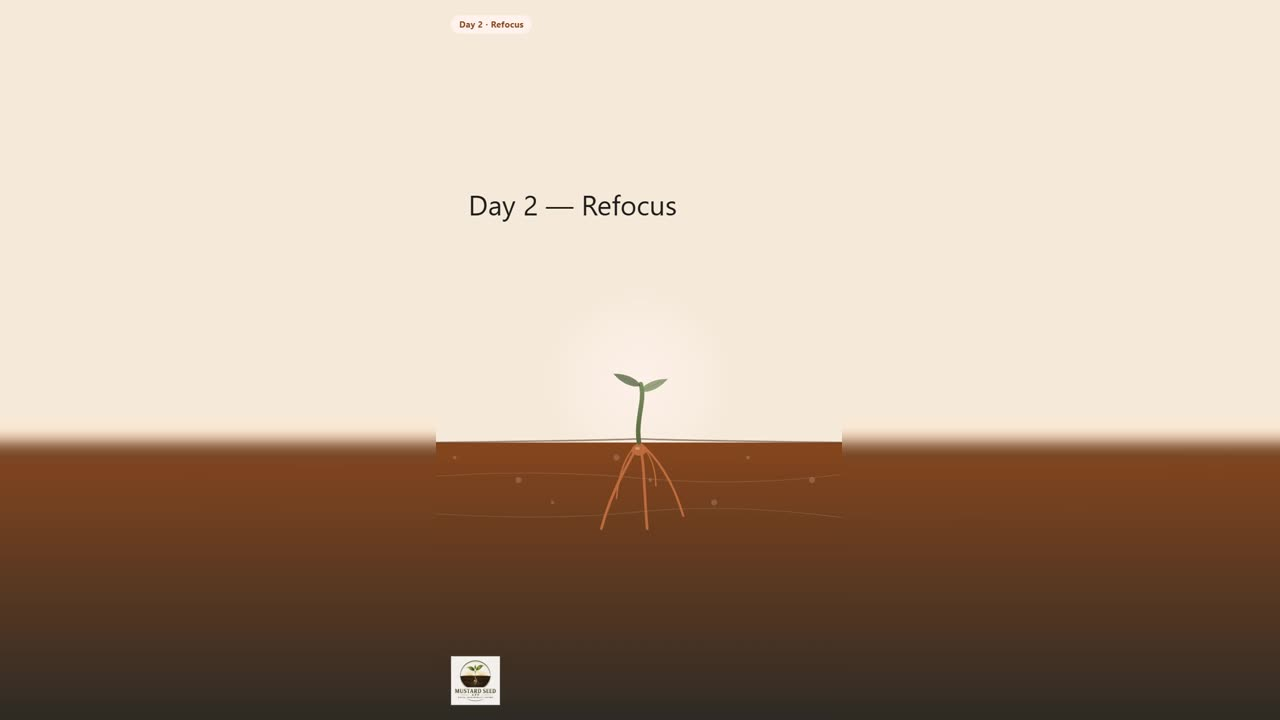
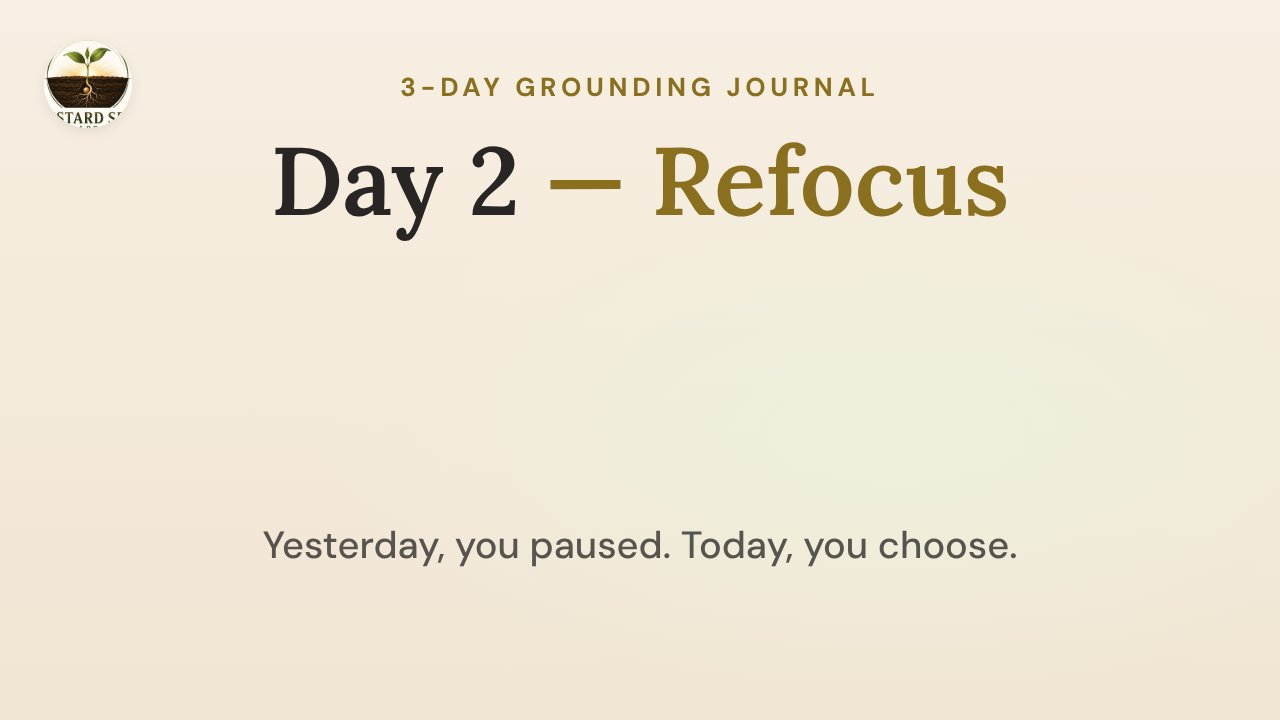
Journal Day 2 tune-up: missed-step accountability, deeper follow-up, past-tense step, posters
Audited against main first (Day 1 work from #47 is already on main).

1. "Partly"/"Not yet" on last night's step: Jai keeps the grace and makes
   his one question what got in the way; his reply then keeps the step
   or makes it smaller (Feedback & Adaptation). Their answer and his
   reply go to Memory. The evening now also sees his morning reply.
2. Jai's follow-up question may not restate or reword an on-screen
   question they just answered; it goes one level deeper into their why.
3. The card reads "Last night you planned: ..." (the stored step keeps
   its "Tomorrow, ..." wording).
5. Verified Day 2 offers the reflect-time picker and kept-your-word
   water. Tester runs never saw it: after one "Skip the wait" the gate
   stayed locked on the already-done session, so every later wait screen
   was silently skipped. The gate now moves past sessions already done
   (no change for real users, who can't finish a session early). New
   unit test.
7. One poster style for Days 1-3: a title card with the title above the
   play button and the day's line below it. All three videos verified
   full 1280x720 with no black bars.

Item 4 (Day 1 step from the user's words) and 6 (acknowledgment after
the morning reply) were already fixed in #46/#47.

Claude-Session: https://claude.ai/code/session_011426F9ZEwG46ZQEsTnvUv8

diff --git a/server/jaeJournal.ts b/server/jaeJournal.ts
@@ -26,7 +26,7 @@ export interface JournalSessionContext {
   }[];
   // Evening only: this morning's follow-up question and their answer — often
   // where they set today's small step.
-  todayMorningFollowUp?: { question: string; answer: string } | null;
+  todayMorningFollowUp?: { question: string; answer: string; jaiReply?: string | null } | null;
   // Grounding statement only: the last step Jai locked in.
   lockedStep?: string | null;
   // Only populated for evening sessions — that day's own morning prompts +
@@ -169,7 +169,7 @@ export async function generateJournalReflection(
   const morningStepBlock = ctx.session === "morning" && (ctx.yesterdayStep || stepCheck)
     ? `
 Last night you suggested this small step for today (reference only): ${ctx.yesterdayStep ?? stepCheck!.prompt.slice(STEP_CHECK_PREFIX.length).trim()}
-${stepCheck ? `They answered whether they did it: ${stepCheck.response}. Acknowledge it in ONE short sentence near the start of "reflection" (after answering any direct question). Did it → name it as real progress toward their goal, and as Small Steps + Consistency in action (that exact name). Partly or not yet → grace, no shame; showing up today still counts, and the step can be smaller. Don't ask about it again.` : `They haven't said whether they did it. Don't assume either way.`}
+${stepCheck ? `They answered whether they did it: ${stepCheck.response}. Acknowledge it in ONE short sentence near the start of "reflection" (after answering any direct question). Did it → name it as real progress toward their goal, and as Small Steps + Consistency in action (that exact name). Partly or not yet → grace, no shame; showing up today still counts. Then make your ONE "followUpQuestion" a short, kind question about what got in the way (e.g. "What got in the way last night?"), so the two of you can adapt the step. If they did it, don't ask about it again.` : `They haven't said whether they did it. Don't assume either way.`}
 `
     : "";
   const eveningStepBlock = isEvening
@@ -189,7 +189,7 @@ Tonight, end with ONE small next step ("nextStep"):
     ? `
 This morning you asked: ${ctx.todayMorningFollowUp.question}
 They answered (reference only, never quote it): ${ctx.todayMorningFollowUp.answer}
-If that answer set a step for today, check tonight's words for whether they did it. If it named a change they want, build tomorrow's "nextStep" from it.
+${ctx.todayMorningFollowUp.jaiReply ? `You replied: ${ctx.todayMorningFollowUp.jaiReply}\n` : ""}If that answer set a step for today, check tonight's words for whether they did it. If it named a change they want, build tomorrow's "nextStep" from it.
 `
     : "";
   const priorDays = (ctx.previousEntries ?? []).some((e) => e.dayNumber < ctx.dayNumber);
@@ -232,6 +232,7 @@ Rules:
 - Don't repeat the journal prompt's wording back to them (for example "most present", "pace or patience", "calm and purpose"). Instead, name the specific insight they gave, in plain words. Example: if they wrote that they got more done because they didn't feel rushed, say something like "not rushing is what made you productive," not "you reflected on your pace or patience."
 - Keep reflection to 2-4 sentences max.
 - Never ask multiple questions. One question only.
+- Your "followUpQuestion" must never restate or reword an on-screen question they just answered (the "Prompt:" lines). Go one level deeper: ask about the why beneath what they wrote, using their own idea in your words.
 - Avoid clinical or robotic language.
 - Help them notice patterns, name what matters, release shame.
 - If this is the grounding_statement session: help them identify a possible first seed — a single small action that could grow from what they've named.
@@ -320,6 +321,8 @@ export async function generateFollowUpAck(ctx: {
   answer: string;
   intention?: string | null;
   weakestHeartbeat?: { name: string; score: number } | null;
+  // Set when the question was what got in the way of last night's step.
+  missedStep?: { step: string; status: string } | null;
 }): Promise<string> {
   const system = `You are Jai — a calm, grounded accountability partner in the Mustard Seed app.
 ${ctx.userName} just answered your follow-up question in their 3-Day Grounding Journal.
@@ -329,7 +332,8 @@ Reply in 1–2 short sentences that acknowledge what they said and affirm the st
 - Do not ask a question. Do not give advice lists.
 - If they asked you something, answer it plainly in one sentence.
 - If you name a Heartbeat, use its full name exactly.
-- Grace and accountability, no shame. Plain text only.`;
+- Grace and accountability, no shame. Plain text only.${ctx.missedStep ? `
+- Their answer is about what got in the way of last night's step (${ctx.missedStep.step}; they said: ${ctx.missedStep.status}). Acknowledge it with grace, then in ONE sentence either keep that step or make it smaller so it fits what got in the way. That adjusting is Feedback & Adaptation; you may name it by that exact name.` : ""}`;
   try {
     const completion = await openai.chat.completions.create({
       model: "gpt-4o",

diff --git a/server/routes.ts b/server/routes.ts
@@ -4,7 +4,7 @@ import { storage } from "./storage";
 import { requireAuth } from "./auth";
 import { generateJaeResponse, getWeakestHeartbeat, computeHeartbeatScores } from "./heartbeat";
 import { generateDepthResponse } from "./jaeCoach";
-import { generateJournalReflection, generateFollowUpAck, FOLLOW_UP_ACK_FALLBACK } from "./jaeJournal";
+import { generateJournalReflection, generateFollowUpAck, FOLLOW_UP_ACK_FALLBACK, STEP_CHECK_PREFIX } from "./jaeJournal";
 import { generateRebuildReflection, type RebuildInstanceType } from "./jaeRebuild";
 import { evaluateMessage, evaluateSafetyReply } from "./trustSafety";
 import { plantGoal } from "./goalPlanting";
@@ -3537,7 +3537,7 @@ export async function registerRoutes(
       })),
       todayMorningPrompts: morning?.prompts as { prompt: string; response: string }[] | undefined,
       todayMorningFollowUp: morning?.userFollowUpResponse
-        ? { question: morning.jaeFollowUpQuestion ?? "", answer: morning.userFollowUpResponse }
+        ? { question: morning.jaeFollowUpQuestion ?? "", answer: morning.userFollowUpResponse, jaiReply: morning.jaeFollowUpReply }
         : null,
       yesterdayStep: session === "morning"
         ? previous.find((e) => e.dayNumber === dayNumber - 1 && e.session === "evening")?.nextStep ?? null
@@ -3882,12 +3882,20 @@ export async function registerRoutes(
         } as any);
         return res.json({ entry: updated, reply: "", safetyTriggered: true, safetyTier: followUpSafety.tier, safetyThread });
       }
+      // Last night's step, when they said it only partly happened or not yet:
+      // Jai's question was what got in the way, so his reply adapts the step.
+      const stepCheck = ((entry.prompts as { prompt: string; response: string }[]) ?? [])
+        .find((p) => p.prompt.startsWith(STEP_CHECK_PREFIX));
+      const missedStep = stepCheck && !/^yes/i.test(stepCheck.response)
+        ? { step: stepCheck.prompt.slice(STEP_CHECK_PREFIX.length).replace(/\s*Did you get to it\?$/, "").trim(), status: stepCheck.response }
+        : null;
       if (answer) {
         const user = await storage.getUser(userId);
         reply = await generateFollowUpAck({
           userName: user?.name || "friend",
           question: entry.jaeFollowUpQuestion ?? "",
           answer,
+          missedStep,
           ...(await journalAssessmentContext(userId, entries)),
         });
       }
@@ -3896,15 +3904,20 @@ export async function registerRoutes(
         ...(reply ? { jaeFollowUpReply: reply } : {}),
       } as any);
       // Jai's reply goes to Memory too (once per entry; not the generic
-      // fallback line, which says nothing about them).
-      if (reply && reply !== FOLLOW_UP_ACK_FALLBACK && !entry.jaeFollowUpReply) {
+      // fallback line, which says nothing about them). After a missed step,
+      // their own answer about what got in the way is saved with it.
+      const realReply = reply && reply !== FOLLOW_UP_ACK_FALLBACK ? reply : "";
+      if ((realReply || (missedStep && answer)) && !entry.jaeFollowUpReply) {
         const label = entry.session === "morning" ? "Morning" : entry.session === "evening" ? "Evening" : "Grounding Statement";
+        const summary = missedStep
+          ? `Grounding Journal — Day ${entry.dayNumber} ${label}, what got in the way of last night's step: ${answer}${realReply ? ` · Jai: ${realReply}` : ""}`
+          : `Grounding Journal — Day ${entry.dayNumber} ${label}, Jai: ${realReply}`;
         try {
           await storage.createEntry({
             userId,
             goalId: null,
             date: localDate || todayStr(),
-            summary: `Grounding Journal — Day ${entry.dayNumber} ${label}, Jai: ${reply}`,
+            summary,
             mood: "neutral",
           });
         } catch (memErr) {

diff --git a/client/src/pages/GroundingJournal.tsx b/client/src/pages/GroundingJournal.tsx
@@ -30,6 +30,13 @@ const DAY_THEMES = ["RESET", "REFOCUS", "REBUILD"] as const;
 // Builds a one-event .ics file and hands it to the browser, which offers to
 // add it to the user's calendar (iPhone, Android, and desktop all accept it).
 // No server, email, or push setup needed.
+// Last night's stored step ("Tomorrow, put your phone…") read back the next
+// morning without the "Tomorrow," so it doesn't point at the wrong day.
+function pastStep(step: string): string {
+  const rest = step.replace(/^(tomorrow|tonight),?\s*/i, "");
+  return /^[A-Z][a-z]/.test(rest) ? rest[0].toLowerCase() + rest.slice(1) : rest;
+}
+
 // "Kept your word" line, worded from when they actually came back compared
 // with the time they picked (on time, early, or late within the grace hour).
 function keptLine({ plannedAt, arrivedAt }: { plannedAt: string; arrivedAt: string }): string {
@@ -986,7 +993,7 @@ export default function GroundingJournal() {
                           <img src={JaeAvatar} className="w-8 h-8 rounded-full object-cover border-2 border-white shadow shrink-0" alt="Jai" />
                           <div className="space-y-1">
                             <p className="text-xs font-semibold text-primary uppercase tracking-wider">Last night's step</p>
-                            <p className="text-sm text-foreground leading-relaxed" data-testid="text-step-check">{yesterdayStepFor(stepId)}</p>
+                            <p className="text-sm text-foreground leading-relaxed" data-testid="text-step-check">Last night you planned: {pastStep(yesterdayStepFor(stepId)!)}</p>
                             <p className="text-sm text-muted-foreground">Did you get to it?</p>
                           </div>
                         </div>

diff --git a/server/journalPacing.test.ts b/server/journalPacing.test.ts
@@ -136,3 +136,11 @@ test("tester list matches emails case-insensitively", () => {
   assert.equal(isPacingTester("someone@example.com", "donaldh@hardawayai.com"), false);
   assert.equal(isPacingTester("donaldh@hardawayai.com", undefined), false);
 });
+
+test("tester skipped the evening wait: the lock moves on to the next session", () => {
+  // Morning 6:00 PM New York, evening done early at 6:10 PM via the tester skip.
+  const entries = [e(1, "morning", "2026-10-14T22:00:00Z"), e(1, "evening", "2026-10-14T22:10:00Z")];
+  const g = computeJournalGate(entries, new Date("2026-10-14T22:15:00Z"), NY);
+  assert.deepEqual(g.locked, { day: 2, session: "morning" });
+  assert.equal(g.unlocksAt, "2026-10-15T08:00:00.000Z"); // 4:00 AM New York
+});

diff --git a/server/journalPacing.ts b/server/journalPacing.ts
@@ -137,6 +137,9 @@ export function computeJournalGate(entries: JournalEntryLike[], now: Date, timeZ
     const prev = ORDER[i - 1];
     const prevDoneAt = earliest(entries, prev.day, prev.session);
     if (!prevDoneAt) return { locked: step, unlocksAt: null };
+    // Already done (only possible early via the tester skip): the lock moves
+    // on, so testers still meet each later wait screen and time picker.
+    if (earliest(entries, step.day, step.session)) continue;
     const opensAt = step.session === "evening"
       ? eveningOpensAt(prevDoneAt, tz)
       : nextLocalDayAt(prevDoneAt, NEXT_DAY_OPENS_HOUR, tz);
